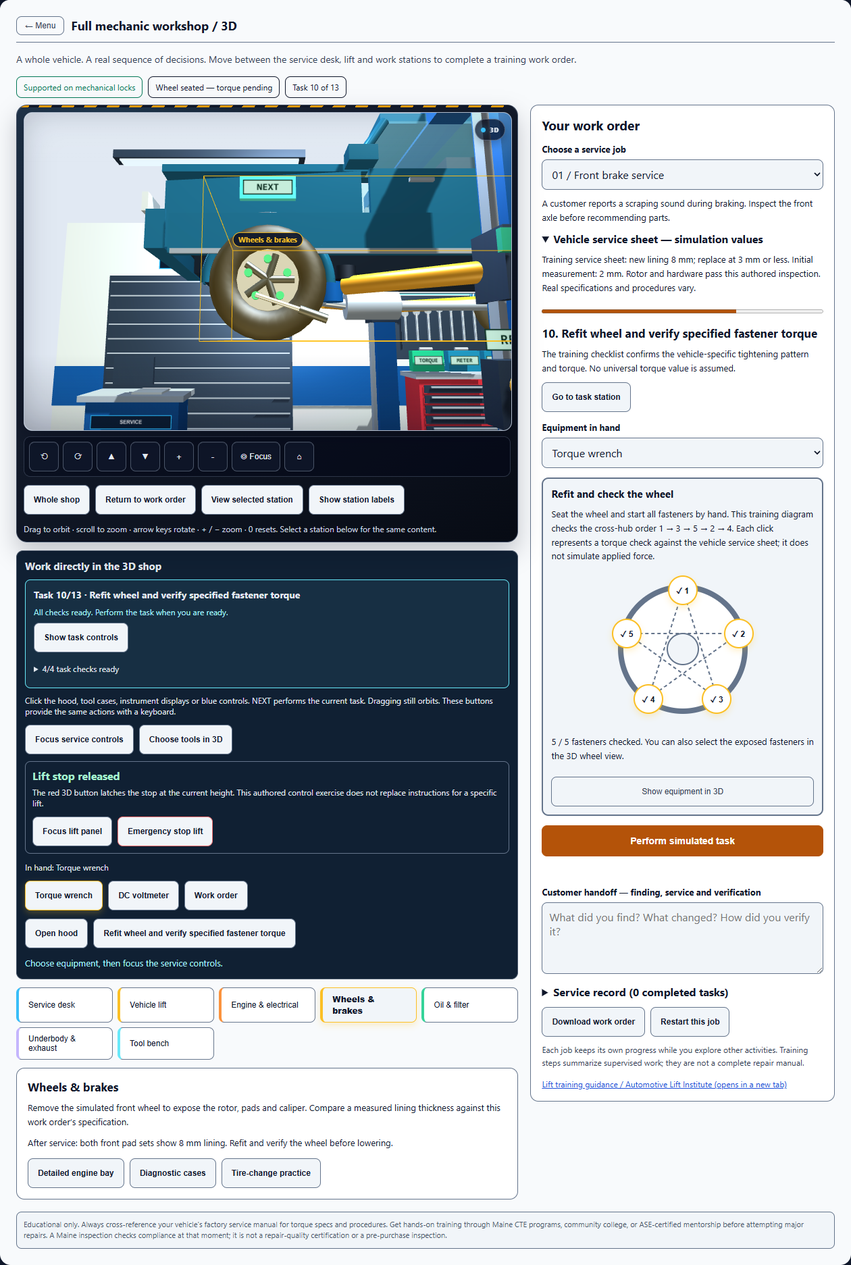
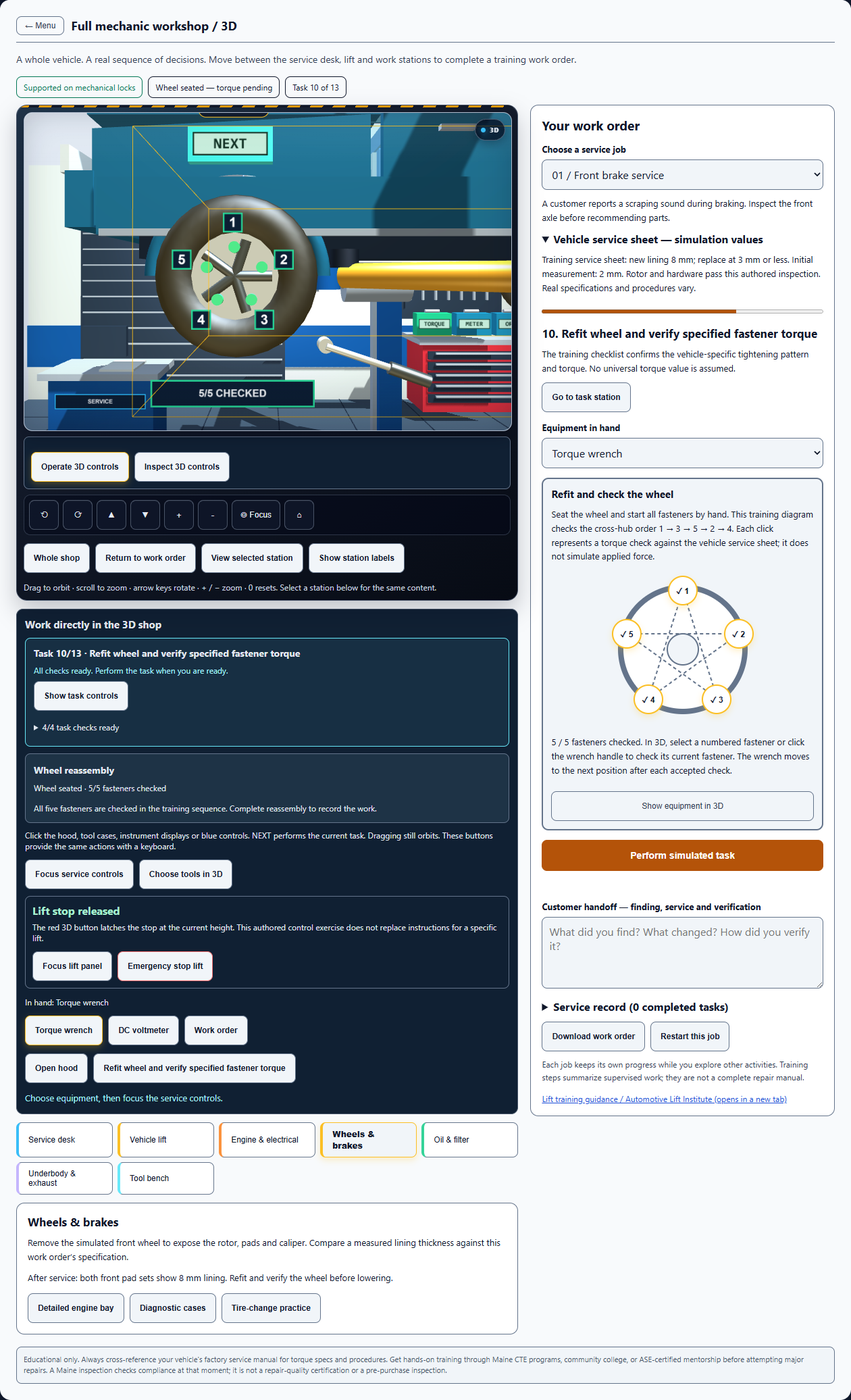
Improve physical wheel reassembly controls in 3D workshop

Changed region(s): [[0.0, 0.0, 0.9905, 0.9909], [0.4333, 0.5884, 0.5571, 0.6813], [0.5571, 0.6193, 0.5881, 0.6503]]

diff --git a/desktop/web-app/public/stem_lab/stem_tool_autorepair.js b/desktop/web-app/public/stem_lab/stem_tool_autorepair.js
@@ -10098,7 +10098,7 @@ if (!(window.StemLab.isRegistered && window.StemLab.isRegistered('autoRepair')))
       pipe(car, 'axle-' + x, [x, 0.40, -0.65], [x, 0.40, 0.65], 0.052, dark);
     });
     if (state.wheelRemoved && !state.wheelSeated) wheel(rack, 'removed-front-wheel', 3.2, 0.64, -1.9);
-    register('brakes', brakes, [-1.3, 0.65 + height, 0.99]);
+    register('brakes', brakes, [-1.3, (arShopInstrumentKind(state) === 'torque' && state.wheelSeated ? 1.14 : 0.65) + height, 0.99]);
     var oil = new THREE.Group(); oil.name = 'workshop-oil-station'; car.add(oil);
     var sump = box(oil, 'engine-oil-sump', [0.73, 0.20, 0.55], [-1.2, 0.40, 0], metal);
     sump.userData.fluidState = state.refilled ? 'filled' : state.oilDrained ? 'drained' : 'used-oil';
@@ -10219,6 +10219,8 @@ if (!(window.StemLab.isRegistered && window.StemLab.isRegistered('autoRepair')))
       instrumentDisplay(gauge, captured ? captured.value + ' mm' : '— mm', [-1.15, 0.73, 1.073], 0.28);
       [-1.30, -1.12].forEach(function (x) { box(gauge, 'gauge-jaw-' + x, [0.018, 0.19, 0.025], [x, 0.54, 1.02], metal); });
     }
+    // The wrench follows the same cross-hub sequence as the accessible diagram.
+    var nextWheelLug = instrumentKind === 'torque' && state.wheelSeated && state.lugs.length < 5 ? TIRE_LUG_PATTERN[state.lugs.length] : null;
     // Five physical fasteners share hit targets with the keyboard button diagram.
     if (state.wheelSeated || state.torqued) {
       for (var lugIndex = 0; lugIndex < 5; lugIndex++) {
@@ -10227,18 +10229,47 @@ if (!(window.StemLab.isRegistered && window.StemLab.isRegistered('autoRepair')))
         lugMaterial.userData._keepOpaqueOnRecede = true;
         var lug = cylinder(brakes, 'workshop-wheel-fastener-' + lugIndex, 0.026, 0.035,
           [-1.30 + Math.cos(angle) * 0.13, 0.40 + Math.sin(angle) * 0.13, 0.962], lugMaterial, 'z');
-        lug.userData.partId = instrumentKind === 'torque' ? 'shop-lug-' + lugIndex : 'brakes'; lug.userData.checked = state.lugs.indexOf(lugIndex) !== -1; picks.push(lug);
+        lug.userData.partId = instrumentKind === 'torque' ? 'shop-lug-' + lugIndex : 'brakes'; lug.userData.checked = state.lugs.indexOf(lugIndex) !== -1; lug.userData.next = lugIndex === nextWheelLug; picks.push(lug);
+        if (instrumentKind === 'torque' && instrumentReady) {
+          var badgeCanvas = document.createElement('canvas'); badgeCanvas.width = badgeCanvas.height = 128;
+          var badgeContext = badgeCanvas.getContext('2d');
+          if (badgeContext) {
+            badgeContext.fillStyle = '#102033'; badgeContext.fillRect(0, 0, 128, 128);
+            badgeContext.strokeStyle = lug.userData.checked ? '#34d399' : lug.userData.next ? '#67e8f9' : '#fbbf24';
+            badgeContext.lineWidth = 10; badgeContext.strokeRect(5, 5, 118, 118);
+            badgeContext.fillStyle = '#ffffff'; badgeContext.font = 'bold 88px sans-serif'; badgeContext.textAlign = 'center'; badgeContext.textBaseline = 'middle';
+            badgeContext.fillText(String(lugIndex + 1), 64, 69);
+            var badge = new THREE.Mesh(new THREE.PlaneGeometry(0.085, 0.085), new THREE.MeshBasicMaterial({ map: new THREE.CanvasTexture(badgeCanvas), side: THREE.DoubleSide }));
+            badge.name = 'workshop-wheel-number-' + lugIndex;
+            badge.position.set(-1.30 + Math.cos(angle) * 0.23, 0.40 + Math.sin(angle) * 0.23, 1.055);
+            badge.userData.partId = lug.userData.partId; badge.userData.next = lug.userData.next;
+            brakes.add(badge); picks.push(badge);
+          }
+          if (lug.userData.next) {
+            var nextRing = new THREE.Mesh(new THREE.TorusGeometry(0.045, 0.007, 8, 32), new THREE.MeshBasicMaterial({ color: 0x67e8f9 }));
+            nextRing.name = 'workshop-wheel-next-ring'; nextRing.position.copy(lug.position); nextRing.position.z = 1.02;
+            nextRing.userData.partId = lug.userData.partId; brakes.add(nextRing); picks.push(nextRing);
+          }
+        }
       }
       if (instrumentKind === 'torque' && instrumentReady) {
-      var lastLug = state.lugs.length ? state.lugs[state.lugs.length - 1] : 0;
-      var wrenchAngle = Math.PI / 2 - lastLug * Math.PI * 2 / 5;
-      var wx = -1.30 + Math.cos(wrenchAngle) * 0.13, wy = 0.40 + Math.sin(wrenchAngle) * 0.13;
-      var torqueShaft = pipe(brakes, 'workshop-torque-wrench-shaft', [wx, wy, 1.015], [wx + 0.36, wy - 0.12, 1.015], 0.015, metal);
-      torqueShaft.material = torqueShaft.material.clone(); torqueShaft.material.userData._keepOpaqueOnRecede = true;
-      torqueShaft.userData.partId = 'shop-lug-' + lastLug; picks.push(torqueShaft);
-      var torqueGrip = pipe(brakes, 'workshop-torque-wrench-grip', [wx + 0.27, wy - 0.09, 1.015], [wx + 0.44, wy - 0.15, 1.015], 0.028, dark);
-      torqueGrip.material = torqueGrip.material.clone(); torqueGrip.material.userData._keepOpaqueOnRecede = true;
-      torqueGrip.userData.partId = 'shop-lug-' + lastLug; picks.push(torqueGrip);
+        var wrench = new THREE.Group(); wrench.name = 'workshop-torque-wrench'; brakes.add(wrench);
+        wrench.userData.nextLug = nextWheelLug; wrench.userData.checkedCount = state.lugs.length;
+        // Park beside the wheel once all checks are recorded; do not repeat the last lug.
+        var wrenchAngle = nextWheelLug === null ? 0 : Math.PI / 2 - nextWheelLug * Math.PI * 2 / 5;
+        var wx = nextWheelLug === null ? -0.90 : -1.30 + Math.cos(wrenchAngle) * 0.13;
+        var wy = nextWheelLug === null ? 0.10 : 0.40 + Math.sin(wrenchAngle) * 0.13;
+        var wrenchPick = nextWheelLug === null ? 'brakes' : 'shop-lug-' + nextWheelLug;
+        var torqueSocket = cylinder(wrench, 'workshop-torque-wrench-socket', 0.032, 0.07, [wx, wy, 1.015], metal, 'z');
+        var torqueShaft = pipe(wrench, 'workshop-torque-wrench-shaft', [wx, wy, 1.055], [wx + 0.36, wy - 0.12, 1.055], 0.015, metal);
+        var torqueGrip = pipe(wrench, 'workshop-torque-wrench-grip', [wx + 0.27, wy - 0.09, 1.055], [wx + 0.44, wy - 0.15, 1.055], 0.028, dark);
+        [torqueSocket, torqueShaft, torqueGrip].forEach(function (part) {
+          part.material = part.material.clone(); part.material.userData._keepOpaqueOnRecede = true;
+          part.userData.partId = wrenchPick; picks.push(part);
+        });
+        var wheelStatus = label(brakes, nextWheelLug === null ? '5/5 CHECKED' : 'NEXT ' + (nextWheelLug + 1) + '   |   ' + state.lugs.length + '/5', [-1.30, -0.10, 1.06], 0.70, nextWheelLug === null ? '#34d399' : '#67e8f9');
+        if (wheelStatus) { wheelStatus.name = 'workshop-wheel-progress'; wheelStatus.userData.partId = 'brakes'; picks.push(wheelStatus); }
+
       }
     }
 
@@ -20217,7 +20248,10 @@ if (!(window.StemLab.isRegistered && window.StemLab.isRegistered('autoRepair')))
           if (!task) { stationCamera('engine'); return; }
           pick(task.station); stationCamera(task.station);
           var kind = arShopInstrumentKind(shop);
-          if (kind === 'alignment') {
+          if (kind === 'torque' && shop.wheelSeated) {
+            SHOP3D.reset(); SHOP3D.nudge(0.65, 0.10);
+            SHOP3D.focus('brakes', { distance: 2.0, target: { x: -1.15, y: 2.00, z: 1.02 }, immediate: true });
+          } else if (kind === 'alignment') {
             SHOP3D.reset(); SHOP3D.nudge(-0.50, 0.12);
             SHOP3D.focus('brakes', { distance: 5.8, target: { x: -1.60, y: 0.65, z: 0 }, immediate: true });
           } else if (kind === 'meter' || kind === 'jug') {
@@ -20441,10 +20475,10 @@ if (!(window.StemLab.isRegistered && window.StemLab.isRegistered('autoRepair')))
                   var checked = shop.lugs.indexOf(i) !== -1;
                   return h('div', { key: i, style: { position: 'absolute', left: 'calc(' + point[0] + '% - 22px)', top: 'calc(' + point[1] + '% - 22px)' } },
                     control((checked ? '✓ ' : '') + (i + 1), function () { operate({ type: 'lug', index: i }); },
-                      { 'data-ar-shop-lug': i, 'aria-label': 'Check fastener ' + (i + 1) + (checked ? ', already checked' : ''), 'aria-pressed': checked, disabled: !shop.wheelSeated,
+                      { 'data-ar-shop-lug': i, 'aria-label': 'Check fastener ' + (i + 1) + (checked ? ', already checked' : ''), 'aria-pressed': checked, 'aria-current': shop.wheelSeated && TIRE_LUG_PATTERN[shop.lugs.length] === i ? 'step' : undefined, disabled: !shop.wheelSeated,
                         style: btnSecondary({ minHeight: 44, minWidth: 44, padding: 5, borderRadius: '50%', border: '2px solid ' + (checked ? T.good : T.border), background: T.card, fontSize: 12 }) }));
                 })),
-              h('p', { role: 'status', 'data-ar-shop-lugs-checked': shop.lugs.length }, shop.lugs.length + ' / 5 fasteners checked. You can also select the exposed fasteners in the 3D wheel view.'))
+              h('p', { role: 'status', 'data-ar-shop-lugs-checked': shop.lugs.length }, shop.lugs.length + ' / 5 fasteners checked. ' + (shop.wheelSeated && shop.lugs.length < 5 ? 'Next: fastener ' + (TIRE_LUG_PATTERN[shop.lugs.length] + 1) + '. ' : '') + 'In 3D, select a numbered fastener or click the wrench handle to check its current fastener. The wrench moves to the next position after each accepted check.'))
               : (kind === 'alignment' && task.id === 'alignment-setup') ? null : h('div', null,
                 h('output', { 'data-ar-shop-reading': reading ? String(reading.value) : '', 'aria-label': 'Captured instrument reading',
                   style: { display: 'block', marginTop: 12, padding: 14, borderRadius: 8, background: isContrast ? '#000' : '#10262c', color: '#e3fff2', fontFamily: 'ui-monospace, Consolas, monospace', fontSize: 27, fontWeight: 700 } },

diff --git a/stem_lab/stem_tool_autorepair.js b/stem_lab/stem_tool_autorepair.js
@@ -10098,7 +10098,7 @@ if (!(window.StemLab.isRegistered && window.StemLab.isRegistered('autoRepair')))
       pipe(car, 'axle-' + x, [x, 0.40, -0.65], [x, 0.40, 0.65], 0.052, dark);
     });
     if (state.wheelRemoved && !state.wheelSeated) wheel(rack, 'removed-front-wheel', 3.2, 0.64, -1.9);
-    register('brakes', brakes, [-1.3, 0.65 + height, 0.99]);
+    register('brakes', brakes, [-1.3, (arShopInstrumentKind(state) === 'torque' && state.wheelSeated ? 1.14 : 0.65) + height, 0.99]);
     var oil = new THREE.Group(); oil.name = 'workshop-oil-station'; car.add(oil);
     var sump = box(oil, 'engine-oil-sump', [0.73, 0.20, 0.55], [-1.2, 0.40, 0], metal);
     sump.userData.fluidState = state.refilled ? 'filled' : state.oilDrained ? 'drained' : 'used-oil';
@@ -10219,6 +10219,8 @@ if (!(window.StemLab.isRegistered && window.StemLab.isRegistered('autoRepair')))
       instrumentDisplay(gauge, captured ? captured.value + ' mm' : '— mm', [-1.15, 0.73, 1.073], 0.28);
       [-1.30, -1.12].forEach(function (x) { box(gauge, 'gauge-jaw-' + x, [0.018, 0.19, 0.025], [x, 0.54, 1.02], metal); });
     }
+    // The wrench follows the same cross-hub sequence as the accessible diagram.
+    var nextWheelLug = instrumentKind === 'torque' && state.wheelSeated && state.lugs.length < 5 ? TIRE_LUG_PATTERN[state.lugs.length] : null;
     // Five physical fasteners share hit targets with the keyboard button diagram.
     if (state.wheelSeated || state.torqued) {
       for (var lugIndex = 0; lugIndex < 5; lugIndex++) {
@@ -10227,18 +10229,47 @@ if (!(window.StemLab.isRegistered && window.StemLab.isRegistered('autoRepair')))
         lugMaterial.userData._keepOpaqueOnRecede = true;
         var lug = cylinder(brakes, 'workshop-wheel-fastener-' + lugIndex, 0.026, 0.035,
           [-1.30 + Math.cos(angle) * 0.13, 0.40 + Math.sin(angle) * 0.13, 0.962], lugMaterial, 'z');
-        lug.userData.partId = instrumentKind === 'torque' ? 'shop-lug-' + lugIndex : 'brakes'; lug.userData.checked = state.lugs.indexOf(lugIndex) !== -1; picks.push(lug);
+        lug.userData.partId = instrumentKind === 'torque' ? 'shop-lug-' + lugIndex : 'brakes'; lug.userData.checked = state.lugs.indexOf(lugIndex) !== -1; lug.userData.next = lugIndex === nextWheelLug; picks.push(lug);
+        if (instrumentKind === 'torque' && instrumentReady) {
+          var badgeCanvas = document.createElement('canvas'); badgeCanvas.width = badgeCanvas.height = 128;
+          var badgeContext = badgeCanvas.getContext('2d');
+          if (badgeContext) {
+            badgeContext.fillStyle = '#102033'; badgeContext.fillRect(0, 0, 128, 128);
+            badgeContext.strokeStyle = lug.userData.checked ? '#34d399' : lug.userData.next ? '#67e8f9' : '#fbbf24';
+            badgeContext.lineWidth = 10; badgeContext.strokeRect(5, 5, 118, 118);
+            badgeContext.fillStyle = '#ffffff'; badgeContext.font = 'bold 88px sans-serif'; badgeContext.textAlign = 'center'; badgeContext.textBaseline = 'middle';
+            badgeContext.fillText(String(lugIndex + 1), 64, 69);
+            var badge = new THREE.Mesh(new THREE.PlaneGeometry(0.085, 0.085), new THREE.MeshBasicMaterial({ map: new THREE.CanvasTexture(badgeCanvas), side: THREE.DoubleSide }));
+            badge.name = 'workshop-wheel-number-' + lugIndex;
+            badge.position.set(-1.30 + Math.cos(angle) * 0.23, 0.40 + Math.sin(angle) * 0.23, 1.055);
+            badge.userData.partId = lug.userData.partId; badge.userData.next = lug.userData.next;
+            brakes.add(badge); picks.push(badge);
+          }
+          if (lug.userData.next) {
+            var nextRing = new THREE.Mesh(new THREE.TorusGeometry(0.045, 0.007, 8, 32), new THREE.MeshBasicMaterial({ color: 0x67e8f9 }));
+            nextRing.name = 'workshop-wheel-next-ring'; nextRing.position.copy(lug.position); nextRing.position.z = 1.02;
+            nextRing.userData.partId = lug.userData.partId; brakes.add(nextRing); picks.push(nextRing);
+          }
+        }
       }
       if (instrumentKind === 'torque' && instrumentReady) {
-      var lastLug = state.lugs.length ? state.lugs[state.lugs.length - 1] : 0;
-      var wrenchAngle = Math.PI / 2 - lastLug * Math.PI * 2 / 5;
-      var wx = -1.30 + Math.cos(wrenchAngle) * 0.13, wy = 0.40 + Math.sin(wrenchAngle) * 0.13;
-      var torqueShaft = pipe(brakes, 'workshop-torque-wrench-shaft', [wx, wy, 1.015], [wx + 0.36, wy - 0.12, 1.015], 0.015, metal);
-      torqueShaft.material = torqueShaft.material.clone(); torqueShaft.material.userData._keepOpaqueOnRecede = true;
-      torqueShaft.userData.partId = 'shop-lug-' + lastLug; picks.push(torqueShaft);
-      var torqueGrip = pipe(brakes, 'workshop-torque-wrench-grip', [wx + 0.27, wy - 0.09, 1.015], [wx + 0.44, wy - 0.15, 1.015], 0.028, dark);
-      torqueGrip.material = torqueGrip.material.clone(); torqueGrip.material.userData._keepOpaqueOnRecede = true;
-      torqueGrip.userData.partId = 'shop-lug-' + lastLug; picks.push(torqueGrip);
+        var wrench = new THREE.Group(); wrench.name = 'workshop-torque-wrench'; brakes.add(wrench);
+        wrench.userData.nextLug = nextWheelLug; wrench.userData.checkedCount = state.lugs.length;
+        // Park beside the wheel once all checks are recorded; do not repeat the last lug.
+        var wrenchAngle = nextWheelLug === null ? 0 : Math.PI / 2 - nextWheelLug * Math.PI * 2 / 5;
+        var wx = nextWheelLug === null ? -0.90 : -1.30 + Math.cos(wrenchAngle) * 0.13;
+        var wy = nextWheelLug === null ? 0.10 : 0.40 + Math.sin(wrenchAngle) * 0.13;
+        var wrenchPick = nextWheelLug === null ? 'brakes' : 'shop-lug-' + nextWheelLug;
+        var torqueSocket = cylinder(wrench, 'workshop-torque-wrench-socket', 0.032, 0.07, [wx, wy, 1.015], metal, 'z');
+        var torqueShaft = pipe(wrench, 'workshop-torque-wrench-shaft', [wx, wy, 1.055], [wx + 0.36, wy - 0.12, 1.055], 0.015, metal);
+        var torqueGrip = pipe(wrench, 'workshop-torque-wrench-grip', [wx + 0.27, wy - 0.09, 1.055], [wx + 0.44, wy - 0.15, 1.055], 0.028, dark);
+        [torqueSocket, torqueShaft, torqueGrip].forEach(function (part) {
+          part.material = part.material.clone(); part.material.userData._keepOpaqueOnRecede = true;
+          part.userData.partId = wrenchPick; picks.push(part);
+        });
+        var wheelStatus = label(brakes, nextWheelLug === null ? '5/5 CHECKED' : 'NEXT ' + (nextWheelLug + 1) + '   |   ' + state.lugs.length + '/5', [-1.30, -0.10, 1.06], 0.70, nextWheelLug === null ? '#34d399' : '#67e8f9');
+        if (wheelStatus) { wheelStatus.name = 'workshop-wheel-progress'; wheelStatus.userData.partId = 'brakes'; picks.push(wheelStatus); }
+
       }
     }
 
@@ -20217,7 +20248,10 @@ if (!(window.StemLab.isRegistered && window.StemLab.isRegistered('autoRepair')))
           if (!task) { stationCamera('engine'); return; }
           pick(task.station); stationCamera(task.station);
           var kind = arShopInstrumentKind(shop);
-          if (kind === 'alignment') {
+          if (kind === 'torque' && shop.wheelSeated) {
+            SHOP3D.reset(); SHOP3D.nudge(0.65, 0.10);
+            SHOP3D.focus('brakes', { distance: 2.0, target: { x: -1.15, y: 2.00, z: 1.02 }, immediate: true });
+          } else if (kind === 'alignment') {
             SHOP3D.reset(); SHOP3D.nudge(-0.50, 0.12);
             SHOP3D.focus('brakes', { distance: 5.8, target: { x: -1.60, y: 0.65, z: 0 }, immediate: true });
           } else if (kind === 'meter' || kind === 'jug') {
@@ -20441,10 +20475,10 @@ if (!(window.StemLab.isRegistered && window.StemLab.isRegistered('autoRepair')))
                   var checked = shop.lugs.indexOf(i) !== -1;
                   return h('div', { key: i, style: { position: 'absolute', left: 'calc(' + point[0] + '% - 22px)', top: 'calc(' + point[1] + '% - 22px)' } },
                     control((checked ? '✓ ' : '') + (i + 1), function () { operate({ type: 'lug', index: i }); },
-                      { 'data-ar-shop-lug': i, 'aria-label': 'Check fastener ' + (i + 1) + (checked ? ', already checked' : ''), 'aria-pressed': checked, disabled: !shop.wheelSeated,
+                      { 'data-ar-shop-lug': i, 'aria-label': 'Check fastener ' + (i + 1) + (checked ? ', already checked' : ''), 'aria-pressed': checked, 'aria-current': shop.wheelSeated && TIRE_LUG_PATTERN[shop.lugs.length] === i ? 'step' : undefined, disabled: !shop.wheelSeated,
                         style: btnSecondary({ minHeight: 44, minWidth: 44, padding: 5, borderRadius: '50%', border: '2px solid ' + (checked ? T.good : T.border), background: T.card, fontSize: 12 }) }));
                 })),
-              h('p', { role: 'status', 'data-ar-shop-lugs-checked': shop.lugs.length }, shop.lugs.length + ' / 5 fasteners checked. You can also select the exposed fasteners in the 3D wheel view.'))
+              h('p', { role: 'status', 'data-ar-shop-lugs-checked': shop.lugs.length }, shop.lugs.length + ' / 5 fasteners checked. ' + (shop.wheelSeated && shop.lugs.length < 5 ? 'Next: fastener ' + (TIRE_LUG_PATTERN[shop.lugs.length] + 1) + '. ' : '') + 'In 3D, select a numbered fastener or click the wrench handle to check its current fastener. The wrench moves to the next position after each accepted check.'))
               : (kind === 'alignment' && task.id === 'alignment-setup') ? null : h('div', null,
                 h('output', { 'data-ar-shop-reading': reading ? String(reading.value) : '', 'aria-label': 'Captured instrument reading',
                   style: { display: 'block', marginTop: 12, padding: 14, borderRadius: 8, background: isContrast ? '#000' : '#10262c', color: '#e3fff2', fontFamily: 'ui-monospace, Consolas, monospace', fontSize: 27, fontWeight: 700 } },

diff --git a/tests/e2e/autorepair-full-workshop.spec.ts b/tests/e2e/autorepair-full-workshop.spec.ts
@@ -893,3 +893,58 @@ test('inspection keeps the physical stop immediate and retains lift gates and dr
   await expect(page.locator('[data-ar-scene-feedback]')).toContainText('bay-clear check recorded');
   expect(await page.evaluate(() => (window as any).__events.errors)).toEqual([]);
 });
+
+
+test('moving 3D torque wrench, numbered targets and inspection share five deliberate checks', async ({ page }) => {
+  await page.setViewportSize({ width: 1360, height: 1100 });
+  await harness.mount(page, { autoRepair: { view: 'workshop', shop: { job: 'brakes', step: 9, station: 'brakes', tool: 'torque', lift: 'locked', wheelRemoved: true, serviced: true, measured: true } } });
+  await page.locator('[data-ar-shop-seat-wheel]').click();
+  await page.locator('[data-ar-shop-instrument-focus]').click();
+  const count = () => page.evaluate(() => (window as any).__toolData.autoRepair.shop.lugs.length);
+  const next = (index: number | null) => page.waitForFunction(i => (window as any).__shopObject('workshop-torque-wrench')?.data.nextLug === i, index);
+  await next(0);
+  await clickShop(page, 'workshop-wheel-progress');
+  expect(await count()).toBe(0);
+  await expect(page.locator('[data-ar-shop-lug="0"]')).toHaveAttribute('aria-current', 'step');
+  const first = await page.evaluate(() => { const w=window as any, p=w.__shopScene.getObjectByName('workshop-torque-wrench-socket').position; return { x:p.x, y:p.y }; });
+  await clickShop(page, 'workshop-torque-wrench-grip');
+  await next(2); expect(await count()).toBe(1);
+  const second = await page.evaluate(() => { const w=window as any, p=w.__shopScene.getObjectByName('workshop-torque-wrench-socket').position; return { x:p.x, y:p.y }; });
+  expect(second).not.toEqual(first);
+  await clickShop(page, 'workshop-wheel-number-4');
+  expect(await count()).toBe(1);
+  await expect(page.locator('[data-ar-scene-feedback]')).toContainText('cross-hub diagram');
+  await clickShop(page, 'workshop-wheel-number-0');
+  expect(await count()).toBe(1);
+  await expect(page.locator('[data-ar-scene-feedback]')).toContainText('already checked');
+  await page.locator('[data-ar-shop-interaction="inspect"]').click();
+  await page.locator('.ar-bay-viewport').scrollIntoViewIfNeeded();
+  await clickShop(page, 'workshop-torque-wrench-grip');
+  await expect(page.locator('[data-ar-control-preview]')).toContainText('Check fastener 3');
+  expect(await count()).toBe(1);
+  await page.locator('[data-ar-control-use]').click();
+  expect(await count()).toBe(2);
+  await page.locator('[data-ar-shop-interaction="operate"]').click();
+  await page.locator('[data-ar-shop-instrument-focus]').click();
+  await next(4);
+  await page.locator('.ar-bay-viewport').screenshot({ path: 'reports/automobile-workshop/moving-torque-wrench-desktop.png' });
+  await clickShop(page, 'workshop-wheel-number-4');
+  await next(1); expect(await count()).toBe(3);
+  await page.setViewportSize({ width: 390, height: 844 });
+  await page.locator('#wrap').evaluate((el: HTMLElement) => { el.style.width = '100%'; el.style.maxWidth = '100%'; });
+  expect(await page.evaluate(() => document.documentElement.scrollWidth <= innerWidth + 1)).toBe(true);
+  await page.locator('[data-ar-shop-instrument-focus]').click();
+  await clickShop(page, 'workshop-torque-wrench-grip');
+  await next(3); expect(await count()).toBe(4);
+  await page.locator('.ar-bay-viewport').screenshot({ path: 'reports/automobile-workshop/moving-torque-wrench-mobile.png' });
+  await clickShop(page, 'workshop-torque-wrench-grip');
+  await next(null); expect(await count()).toBe(5);
+  expect(await page.evaluate(() => (window as any).__shopObject('workshop-wheel-next-ring'))).toBeNull();
+  await clickShop(page, 'workshop-torque-wrench-grip');
+  expect(await count()).toBe(5);
+  expect(await page.evaluate(() => (window as any).__toolData.autoRepair.shop.step)).toBe(9);
+  expect(await page.evaluate(() => (window as any).__toolData.autoRepair.shop.wheelRemoved)).toBe(true);
+  await page.locator('[data-ar-shop-perform]').click();
+  expect(await page.evaluate(() => (window as any).__toolData.autoRepair.shop)).toMatchObject({ step: 10, torqued: true, wheelRemoved: false });
+  expect(await page.evaluate(() => (window as any).__events.errors)).toEqual([]);
+});

diff --git a/docs/automobile-workshop-review-2026-09-08.md b/docs/automobile-workshop-review-2026-09-08.md
@@ -216,6 +216,19 @@ Validation: **104 workshop model/render tests passed** (39.13 seconds), includin
 - [Desktop control preview](../reports/automobile-workshop/control-inspector-desktop.png)
 - [Phone control preview](../reports/automobile-workshop/control-inspector-mobile.png)
 
+## Moving wrench and numbered wheel controls
+
+During wheel reassembly, the physical wrench now seats its socket on the next fastener in the authored 1 → 3 → 5 → 2 → 4 sequence. Clicking the handle checks that fastener through the existing service dispatcher. Each accepted check moves the wrench; five accepted checks park it beside the wheel. Clicking the parked wrench selects the brake station without repeating a check or completing the work-order step.
+
+Five numbered physical targets expose the same choices as the accessible diagram. A cyan ring marks the next fastener, checked fasteners turn green, and a display below the tyre reports the next number and recorded count. The diagram announces the current step with aria-current. The wheel equipment camera gives a closer frontal view, and the brake station label moves above the controls during reassembly so it does not cover fastener 1. Inspect mode previews the wrench's current fastener before explicit use.
+
+This remains a sequence exercise: clicks represent checks against the fictional job's service sheet, without modeling applied torque, wrench force or thread engagement. Existing prerequisites, out-of-order and repeat rejection, and explicit work-order completion remain in force. No shared viewer changes.
+
+Validation: **104 workshop model/render tests passed** (4.88 seconds). **Three distinct WebGL workflows passed** across focused runs: physical fasteners with the accessible diagram, full brake service through handoff, and the new moving-wrench desktop/phone workflow. The latter verifies socket relocation, numbered target picking, wrong/repeated choice rejection, Inspect preview plus explicit use, a non-operating progress display, all five checks, a parked wrench that does not advance the job, and explicit reassembly completion. The initial phone test retained the harness’s fixed desktop width; its setup was corrected and horizontal overflow is now asserted. Visual review also identified and resolved overlap between the progress display, NEXT button and top fastener number. Desktop and phone screenshots were reviewed. Source/public SHA-256 parity, syntax and scoped whitespace checks passed. The shared viewer is unchanged; the broader automobile suite was not rerun. Temporary browser configuration was removed. No deployment or installer build was performed.
+
+- [Desktop moving wrench](../reports/automobile-workshop/moving-torque-wrench-desktop.png)
+- [Phone moving wrench](../reports/automobile-workshop/moving-torque-wrench-mobile.png)
+
 ## Scope and remaining opportunities
 
 This is an authored educational simulation. Service actions represent supervised procedures; it does not model wrench forces, hydraulic pressure, component collision, thread engagement, fluid dynamics or every repair operation. The work orders do not supply universal torque/fluid specifications or certify a real vehicle. Exhaust and tool stations currently support exploration rather than separate exhaust-repair or inventory-management jobs.
